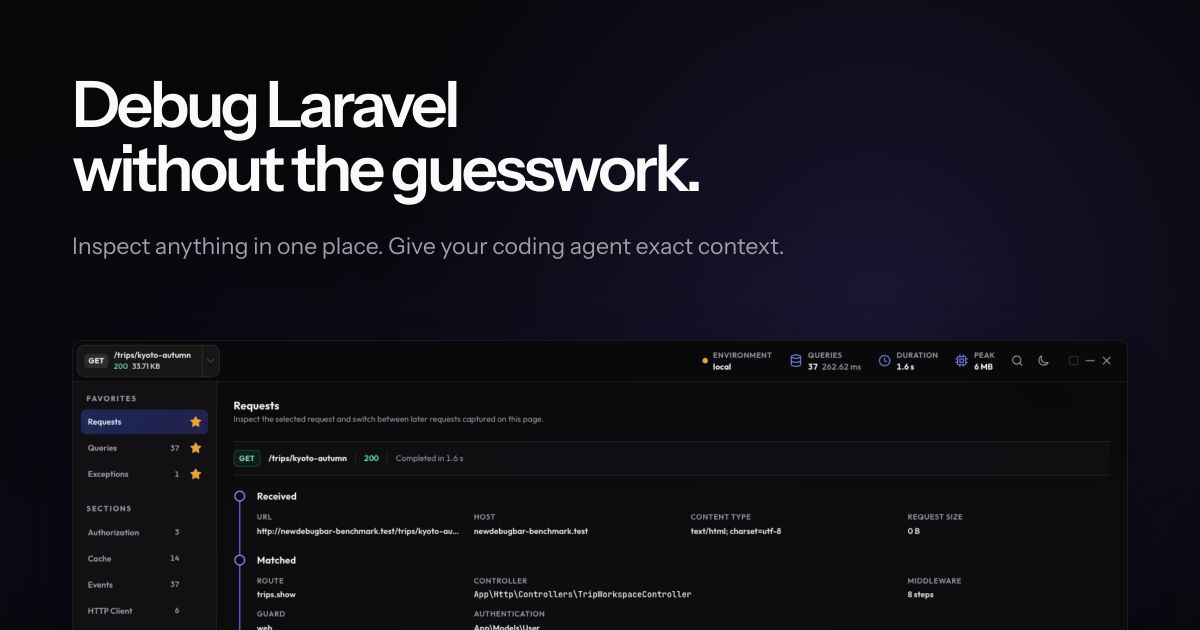
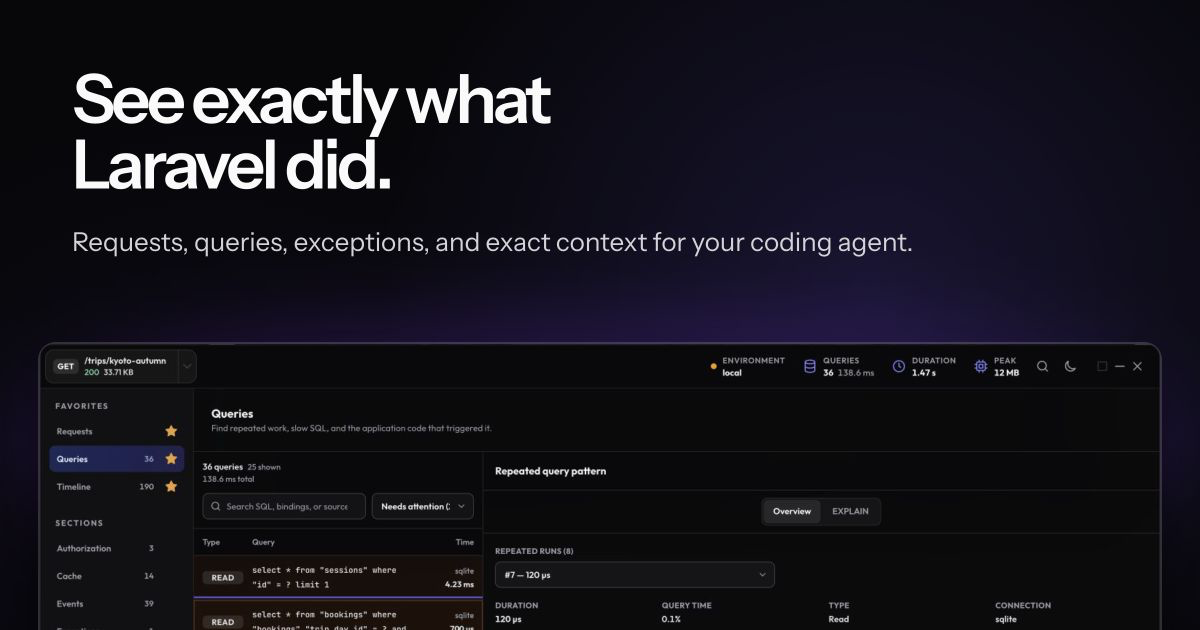
Strengthen the social preview
- Lead with a sharper Laravel debugging promise.
- Show a real repeated-query finding from the benchmark.
- Separate the dark product surface with a restrained edge and halo.

diff --git a/vite.config.js b/vite.config.js
@@ -10,6 +10,7 @@ export default defineConfig({
                 'resources/css/app.css',
                 'resources/js/app.js',
                 'resources/images/people/benjamin-crozat.webp',
+                'resources/images/screenshots/queries-inspector-desktop-dark.png',
                 'resources/images/social/newdebugbar-og.png',
             ],
             refresh: true,

diff --git a/resources/views/social/og-image.blade.php b/resources/views/social/og-image.blade.php
@@ -28,26 +28,27 @@
             data-social-preview-width="1200"
             data-social-preview-height="630"
         >
-            <h1 class="absolute top-[72px] left-[72px] w-[930px] text-[64px] leading-none font-semibold tracking-[-0.055em] text-zinc-50">
-                Debug Laravel<br>
-                without the guesswork.
+            <h1 class="absolute top-[66px] left-[72px] w-[930px] text-[68px] leading-[0.96] font-semibold tracking-[-0.055em] text-zinc-50">
+                See exactly what<br>
+                Laravel did.
             </h1>
 
-            <p class="absolute top-[230px] left-[72px] w-[880px] text-[23px] leading-8 text-zinc-400">
-                Inspect anything in one place. Give your coding agent exact context.
+            <p class="absolute top-[224px] left-[72px] w-[1050px] text-[26px] leading-9 text-zinc-300">
+                Requests, queries, exceptions, and exact context for your coding agent.
             </p>
 
-            <div class="absolute top-[340px] left-[72px] w-[1056px] before:absolute before:inset-[8%_7%_32%] before:z-[-1] before:rounded-[50%] before:bg-[rgb(124_58_237_/_13%)] before:blur-[5rem] before:content-['']">
+            <div class="absolute top-[344px] left-10 w-[1120px] rounded-2xl bg-[#0d0d10] shadow-[0_1.75rem_3.25rem_rgb(0_0_0_/_60%)] ring-2 ring-white/[0.16] before:absolute before:-top-6 before:-right-6 before:-left-6 before:h-[15rem] before:z-[-1] before:rounded-[45%] before:bg-[rgb(124_58_237_/_24%)] before:blur-[42px] before:content-['']">
                 <img
-                    class="block h-auto w-full drop-shadow-[0_1.75rem_2.5rem_rgb(0_0_0_/_48%)]"
-                    src="{{ Vite::asset('resources/images/screenshots/request-inspector-desktop-dark.png') }}"
+                    class="block h-auto w-full rounded-[14px]"
+                    src="{{ Vite::asset('resources/images/screenshots/queries-inspector-desktop-dark.png') }}"
                     width="1536"
-                    height="780"
-                    alt="The New Debug Bar Requests inspector showing exact Laravel request data"
+                    height="640"
+                    alt="The New Debug Bar Queries inspector showing a repeated query pattern that may be an N+1 query"
                     decoding="sync"
                     fetchpriority="high"
                     data-request-inspector-image
                     data-request-inspector-theme="dark"
+                    data-request-inspector-view="queries"
                 >
             </div>
         </main>

diff --git a/tests/Feature/PublicPagesTest.php b/tests/Feature/PublicPagesTest.php
@@ -183,8 +183,9 @@ it('renders the social preview from a fixed local capture page', function () {
         ->and($canvas->item(0)?->getAttribute('data-social-preview-height'))->toBe('630')
         ->and($productScreenshot)->toHaveCount(1)
         ->and($productScreenshot->item(0)?->getAttribute('width'))->toBe('1536')
-        ->and($productScreenshot->item(0)?->getAttribute('height'))->toBe('780')
+        ->and($productScreenshot->item(0)?->getAttribute('height'))->toBe('640')
         ->and($productScreenshot->item(0)?->getAttribute('data-request-inspector-theme'))->toBe('dark')
+        ->and($productScreenshot->item(0)?->getAttribute('data-request-inspector-view'))->toBe('queries')
         ->and($injectedToolbar)->toHaveCount(0);
 });
 

diff --git a/resources/views/components/layouts/site.blade.php b/resources/views/components/layouts/site.blade.php
@@ -7,7 +7,7 @@
     'ogTitle' => null,
     'ogDescription' => null,
     'socialImage' => null,
-    'socialImageAlt' => 'New Debug Bar for Laravel with the Requests inspector open',
+    'socialImageAlt' => 'New Debug Bar for Laravel with a repeated-query finding open',
     'structuredData' => null,
 ])
 
